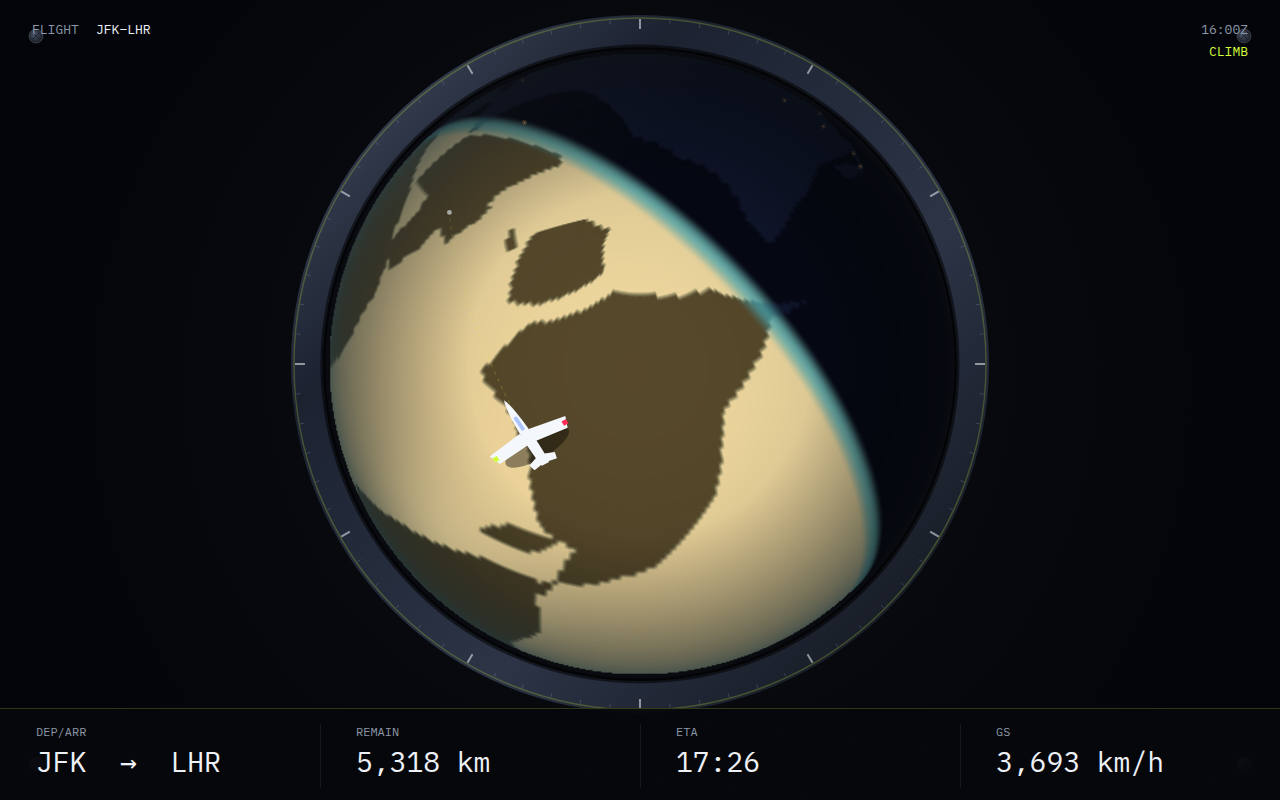
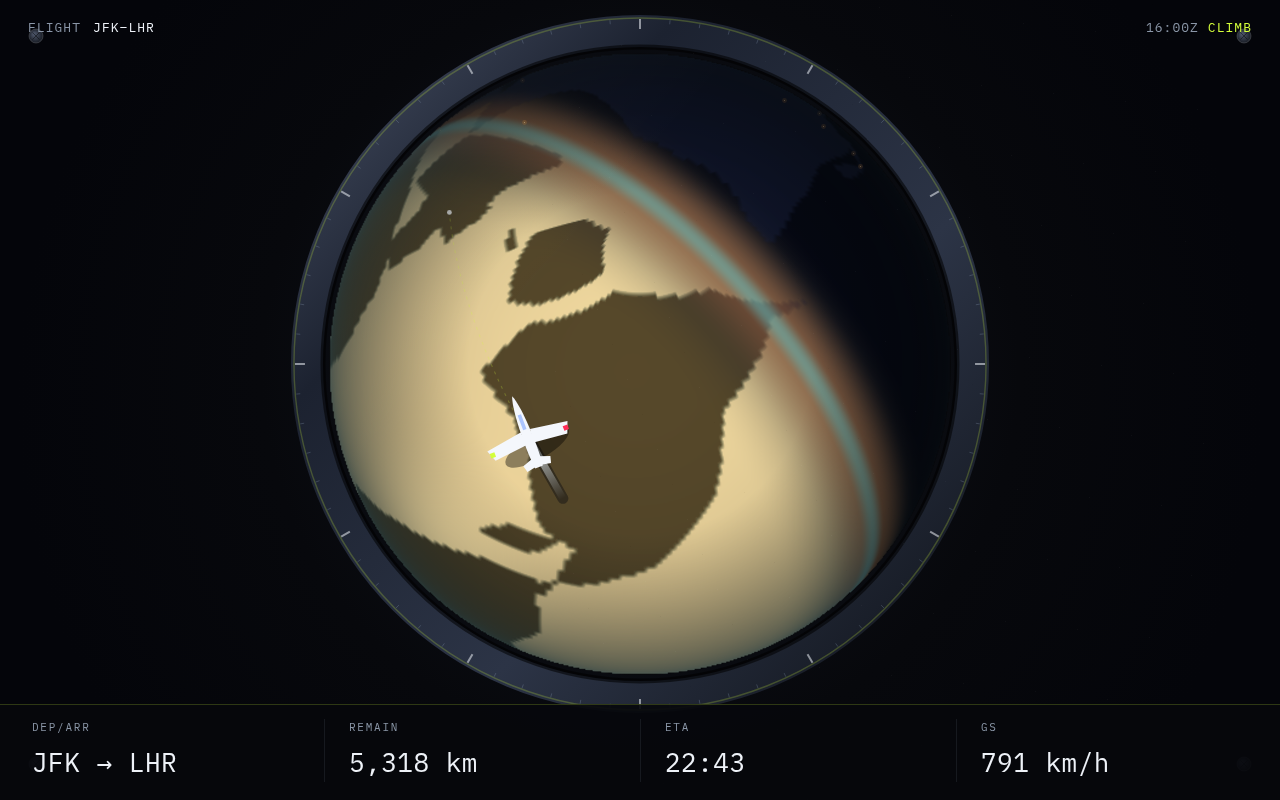
faces: Flight critic R1 — HTML strip, dusk terminator, wake
Move instrument type off canvas, soften the UTC terminator with dusk,
draw a decaying screen-space contrail, and still JFK–LHR at a 7h block
so ground speed reads as an honest jet (~791 km/h).

diff --git a/src/renderer/src/features/faces/flight/FlightFace.tsx b/src/renderer/src/features/faces/flight/FlightFace.tsx
@@ -1,10 +1,12 @@
 import { useEffect, useRef, type JSX } from "react";
 import type { FaceProps } from "../types";
 import { drawFlightFace, type FaceVariant } from "./draw";
+import "./flight.css";
 import {
   formatClockHm,
   formatGs,
   formatKm,
+  formatZulu,
 } from "./math";
 import { buildFlightModel } from "./model";
 
@@ -53,6 +55,7 @@ export function FlightFace(props: FlightFaceViewProps): JSX.Element {
         height,
         model,
         variant: current.variant ?? "instrument",
+        chrome: "overlay",
       });
       canvas.dataset.phase = model.phase;
       canvas.dataset.progress = model.progress.toFixed(3);
@@ -96,29 +99,65 @@ export function FlightFace(props: FlightFaceViewProps): JSX.Element {
   }, []);
 
   const model = buildFlightModel(props, props.idleOverride);
+  const variant = props.variant ?? "instrument";
+  const remain = model.complete ? "0 km" : formatKm(model.remainKm);
+  const eta = model.complete ? "ARR" : formatClockHm(model.eta);
+  const gs = model.complete ? "0 km/h" : formatGs(model.gsKmh);
   const label = model.complete
     ? `Flight complete. Destination ${model.arr.name}.`
-    : `Flight ${model.dep.code} to ${model.arr.code}. ${formatKm(model.remainKm)} remaining. ETA ${formatClockHm(model.eta)}. ${formatGs(model.gsKmh)}. ${model.phase}.`;
+    : `Flight ${model.dep.code} to ${model.arr.code}. ${remain} remaining. ETA ${eta}. ${gs}. ${model.phase}.`;
 
   return (
     <div
-      className={props.className}
+      className={["fp-flight", props.className].filter(Boolean).join(" ")}
       data-face="flight"
-      data-variant={props.variant ?? "instrument"}
+      data-variant={variant}
       data-phase={model.phase}
-      style={{
-        position: "relative",
-        width: "100%",
-        height: "100%",
-        background: "#07080c",
-      }}
     >
-      <canvas
-        ref={canvasRef}
-        role="img"
-        aria-label={label}
-        style={{ display: "block", width: "100%", height: "100%" }}
-      />
+      {variant === "instrument" ? (
+        <div className="fp-flight-head">
+          <span>
+            FLIGHT
+            <strong>
+              {model.dep.code}–{model.arr.code}
+            </strong>
+          </span>
+          <span>
+            {formatZulu(model.now)} <em>{model.phase.toUpperCase()}</em>
+          </span>
+        </div>
+      ) : null}
+      {variant === "instrument" && model.complete ? (
+        <div className="fp-flight-plate">
+          <div>
+            <span>DESTINATION SETS</span>
+            <b>{model.arr.name.toUpperCase()}</b>
+          </div>
+        </div>
+      ) : null}
+      <canvas ref={canvasRef} role="img" aria-label={label} />
+      {variant === "instrument" ? (
+        <div className="fp-flight-strip">
+          <div>
+            <span>DEP/ARR</span>
+            <b>
+              {model.dep.code} → {model.arr.code}
+            </b>
+          </div>
+          <div>
+            <span>REMAIN</span>
+            <b>{remain}</b>
+          </div>
+          <div>
+            <span>ETA</span>
+            <b>{eta}</b>
+          </div>
+          <div>
+            <span>GS</span>
+            <b>{gs}</b>
+          </div>
+        </div>
+      ) : null}
     </div>
   );
 }

diff --git a/src/renderer/src/features/faces/flight/draw.ts b/src/renderer/src/features/faces/flight/draw.ts
@@ -22,6 +22,8 @@ export interface DrawFlightInput {
   height: number;
   model: FlightModel;
   variant: FaceVariant;
+  /** HTML overlay owns type; canvas keeps the globe. */
+  chrome?: "overlay" | "canvas";
 }
 
 const globeBitmapCache = new Map<string, ImageBitmap | HTMLCanvasElement>();
@@ -283,9 +285,8 @@ function drawAircraft(
 
   ctx.save();
   ctx.translate(here.x, here.y);
-  ctx.rotate(heading + bank * 0.18);
-  ctx.transform(1, 0, Math.sin(bank) * 0.55, Math.max(0.62, Math.cos(bank)), 0, 0);
-  ctx.scale(s, s);
+  ctx.rotate(heading + bank);
+  ctx.scale(s, s * Math.max(0.58, Math.cos(bank)));
 
   ctx.fillStyle = "#f4f7fc";
   ctx.beginPath();
@@ -507,13 +508,68 @@ export function drawFlightFace(input: DrawFlightInput): void {
   drawCityLights(ctx, model, cx, cy, radius);
   drawRoute(ctx, model, cx, cy, radius);
   drawContrail(ctx, model, cx, cy, radius);
+  drawWake(ctx, model, cx, cy, radius);
   drawAircraft(ctx, model, cx, cy, radius);
   ctx.restore();
   drawGlass(ctx, cx, cy, radius);
-  drawHeader(ctx, model, width);
-  drawCompletePlate(ctx, model, width);
-  drawStrip(ctx, model, width, height);
+  if (input.chrome !== "overlay") {
+    drawHeader(ctx, model, width);
+    drawCompletePlate(ctx, model, width);
+    drawStrip(ctx, model, width, height);
+  }
   drawGrain(ctx, width, height);
+}
+
+function drawWake(
+  ctx: CanvasRenderingContext2D,
+  model: FlightModel,
+  cx: number,
+  cy: number,
+  radius: number,
+): void {
+  const here = projectWorld(latLonToUnit(model.planeLat, model.planeLon), model, cx, cy, radius);
+  if (!here.visible) return;
+  const aheadGeo = greatCirclePoint(
+    model.dep.lat,
+    model.dep.lon,
+    model.arr.lat,
+    model.arr.lon,
+    Math.min(1, model.progress + 0.02),
+  );
+  const ahead = projectWorld(latLonToUnit(aheadGeo.lat, aheadGeo.lon), model, cx, cy, radius);
+  let dx = here.x - ahead.x;
+  let dy = here.y - ahead.y;
+  let len = Math.hypot(dx, dy);
+  if (len < 0.8) {
+    const heading = screenHeading(model, cx, cy, radius);
+    dx = Math.sin(heading);
+    dy = Math.cos(heading);
+    len = 1;
+  }
+  const ux = dx / len;
+  const uy = dy / len;
+  const widthScale = contrailWidthScale(model.phase);
+  const tail = 72 * (model.phase === "cruise" ? 0.78 : 1);
+  const tx = here.x + ux * tail;
+  const ty = here.y + uy * tail;
+  const fade = ctx.createLinearGradient(here.x, here.y, tx, ty);
+  fade.addColorStop(0, `rgba(236, 246, 255, ${0.88 * Math.max(0.55, widthScale)})`);
+  fade.addColorStop(1, "rgba(236, 246, 255, 0)");
+  ctx.save();
+  ctx.lineCap = "round";
+  ctx.strokeStyle = "rgba(6, 8, 14, 0.4)";
+  ctx.lineWidth = 11 * Math.max(0.55, widthScale);
+  ctx.beginPath();
+  ctx.moveTo(here.x, here.y);
+  ctx.lineTo(tx, ty);
+  ctx.stroke();
+  ctx.strokeStyle = fade;
+  ctx.lineWidth = 7 * Math.max(0.55, widthScale);
+  ctx.beginPath();
+  ctx.moveTo(here.x, here.y);
+  ctx.lineTo(tx, ty);
+  ctx.stroke();
+  ctx.restore();
 }
 
 function drawGrain(ctx: CanvasRenderingContext2D, w: number, h: number): void {

diff --git a/src/renderer/src/features/faces/flight/flight.css b/src/renderer/src/features/faces/flight/flight.css
@@ -1,0 +1,112 @@
+.fp-flight {
+  position: relative;
+  width: 100%;
+  height: 100%;
+  background: #07080c;
+  color: #eef2f8;
+  font-family: "IBM Plex Mono", ui-monospace, monospace;
+  overflow: hidden;
+}
+
+.fp-flight canvas {
+  display: block;
+  width: 100%;
+  height: 100%;
+}
+
+.fp-flight-head,
+.fp-flight-strip,
+.fp-flight-plate {
+  position: absolute;
+  left: 0;
+  right: 0;
+  pointer-events: none;
+  z-index: 2;
+}
+
+.fp-flight-head {
+  top: 0;
+  display: flex;
+  justify-content: space-between;
+  align-items: flex-start;
+  padding: 18px 28px 0;
+  font-size: 13px;
+  letter-spacing: 0.08em;
+  color: #8b97a8;
+}
+
+.fp-flight-head strong {
+  color: #eef2f8;
+  font-weight: 400;
+  margin-left: 12px;
+}
+
+.fp-flight-head em {
+  color: #d4ff3a;
+  font-style: normal;
+}
+
+.fp-flight-plate {
+  top: 64px;
+  display: flex;
+  flex-direction: column;
+  align-items: center;
+}
+
+.fp-flight-plate > div {
+  min-width: 380px;
+  padding: 12px 28px 16px;
+  border: 1px solid rgba(212, 255, 58, 0.28);
+  background: rgba(7, 8, 12, 0.78);
+  text-align: center;
+}
+
+.fp-flight-plate span {
+  display: block;
+  font-size: 11px;
+  letter-spacing: 0.22em;
+  color: #8b97a8;
+}
+
+.fp-flight-plate b {
+  display: block;
+  margin-top: 6px;
+  font-size: 32px;
+  font-weight: 400;
+  letter-spacing: 0.16em;
+}
+
+.fp-flight-strip {
+  bottom: 0;
+  display: grid;
+  grid-template-columns: repeat(4, 1fr);
+  gap: 0;
+  border-top: 1px solid rgba(212, 255, 58, 0.2);
+  background: rgba(7, 8, 12, 0.92);
+  padding: 14px 8px 18px;
+}
+
+.fp-flight-strip div {
+  padding: 0 24px;
+  border-left: 1px solid rgba(170, 190, 220, 0.1);
+}
+
+.fp-flight-strip div:first-child {
+  border-left: 0;
+}
+
+.fp-flight-strip span {
+  display: block;
+  font-size: 11px;
+  letter-spacing: 0.16em;
+  color: #8b97a8;
+}
+
+.fp-flight-strip b {
+  display: block;
+  margin-top: 8px;
+  font-size: 26px;
+  font-weight: 400;
+  color: #eef2f8;
+  letter-spacing: 0.02em;
+}

diff --git a/src/renderer/src/features/faces/flight/globe.ts b/src/renderer/src/features/faces/flight/globe.ts
@@ -1,6 +1,16 @@
 import { landCoverage } from "./continents";
-import { dayAmount, dot, twilightBand, unitToLatLon, type Vec3 } from "./math";
+import { clamp, dayAmount, dot, smoothstep, twilightBand, unitToLatLon, type Vec3 } from "./math";
 import type { FlightModel } from "./model";
+
+function lightingWrap(intensity: number): number {
+  return smoothstep(-0.28, 0.38, intensity);
+}
+
+function duskAmount(intensity: number): number {
+  const rise = smoothstep(-0.2, -0.02, intensity);
+  const fall = 1 - smoothstep(0.02, 0.22, intensity);
+  return clamp(rise * fall, 0, 1);
+}
 
 interface DiskSample {
   x: number;
@@ -44,7 +54,9 @@ function shadePixel(
   const land = landCoverage(geo.lat, geo.lon);
   const intensity = dot(world, sun);
   const day = dayAmount(intensity);
+  const wrap = lightingWrap(intensity);
   const twilight = twilightBand(intensity);
+  const dusk = duskAmount(intensity);
 
   const oceanDay = [236, 214, 158] as const;
   const landDay = [86, 72, 42] as const;
@@ -61,11 +73,18 @@ function shadePixel(
   const nightG = mix(oceanNight[1], landNight[1], land);
   const nightB = mix(oceanNight[2], landNight[2], land);
 
-  let r = mix(nightR, dayR, day);
-  let g = mix(nightG, dayG, day);
-  let b = mix(nightB, dayB, day);
+  let r = mix(nightR, dayR, wrap);
+  let g = mix(nightG, dayG, wrap);
+  let b = mix(nightB, dayB, wrap);
 
-  const tw = twilight * 0.52;
+  const duskR = 196;
+  const duskG = 118;
+  const duskB = 72;
+  r = mix(r, duskR, dusk * 0.42);
+  g = mix(g, duskG, dusk * 0.42);
+  b = mix(b, duskB, dusk * 0.42);
+
+  const tw = twilight * 0.4;
   r = mix(r, twilightCyan[0], tw);
   g = mix(g, twilightCyan[1], tw);
   b = mix(b, twilightCyan[2], tw);

diff --git a/src/renderer/src/features/faces/flight/evidence/CRITIC.md b/src/renderer/src/features/faces/flight/evidence/CRITIC.md
@@ -1,0 +1,12 @@
+# Independent critic (faces-flight)
+
+Blind critic. Bar: 1280×800 before/after. WIN only if AFTER reads as a photographed flight instrument at a real local time.
+
+## Round 1 — LOSE
+
+- **Selected:** AFTER (still lost the bar)
+- **Largest gap:** Flat screensaver globe — knife-edge terminator, level airplane decal, no tapering contrail, doubled canvas type, 3,693 km/h strip from a 90-minute JFK–LHR clock.
+
+## Round 2 — pending
+
+Fixes after R1: HTML instrument type, dusk-softened terminator, screen-space decaying wake, bank as screen roll, stills use honest 420-minute block so GS ≈ 791 km/h.
